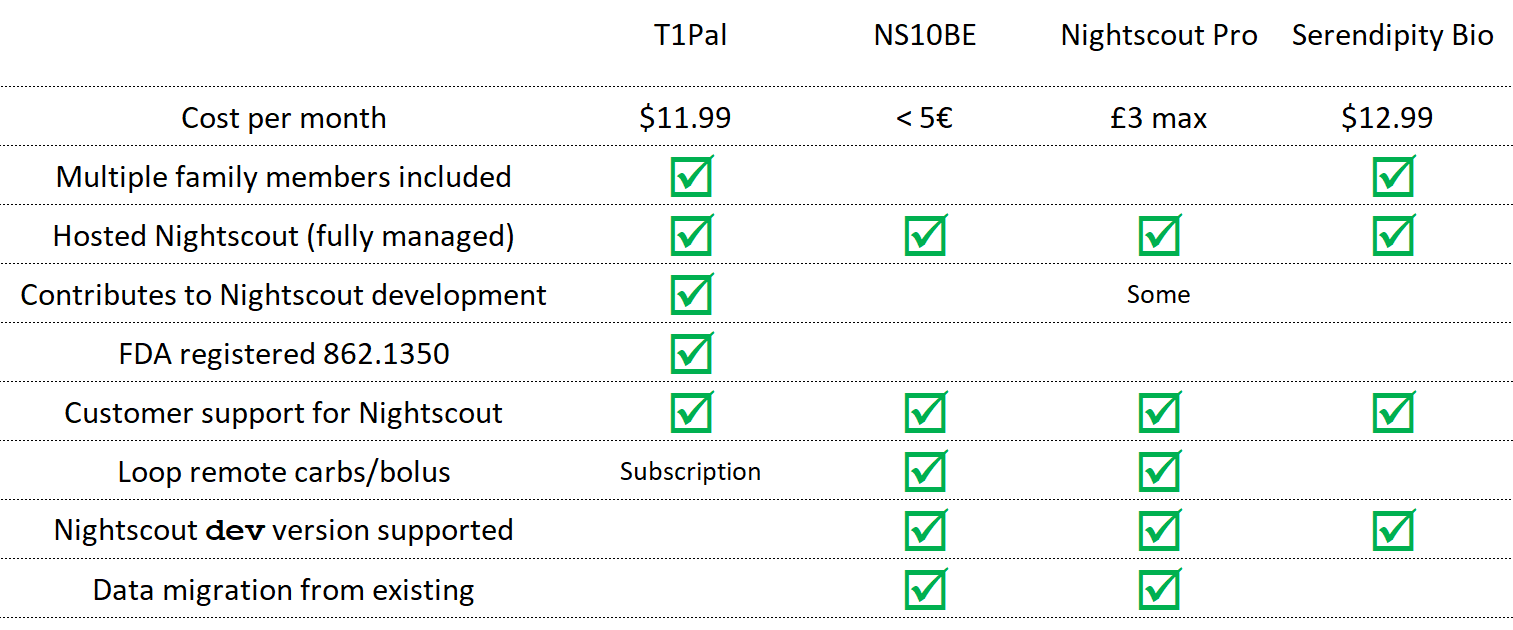
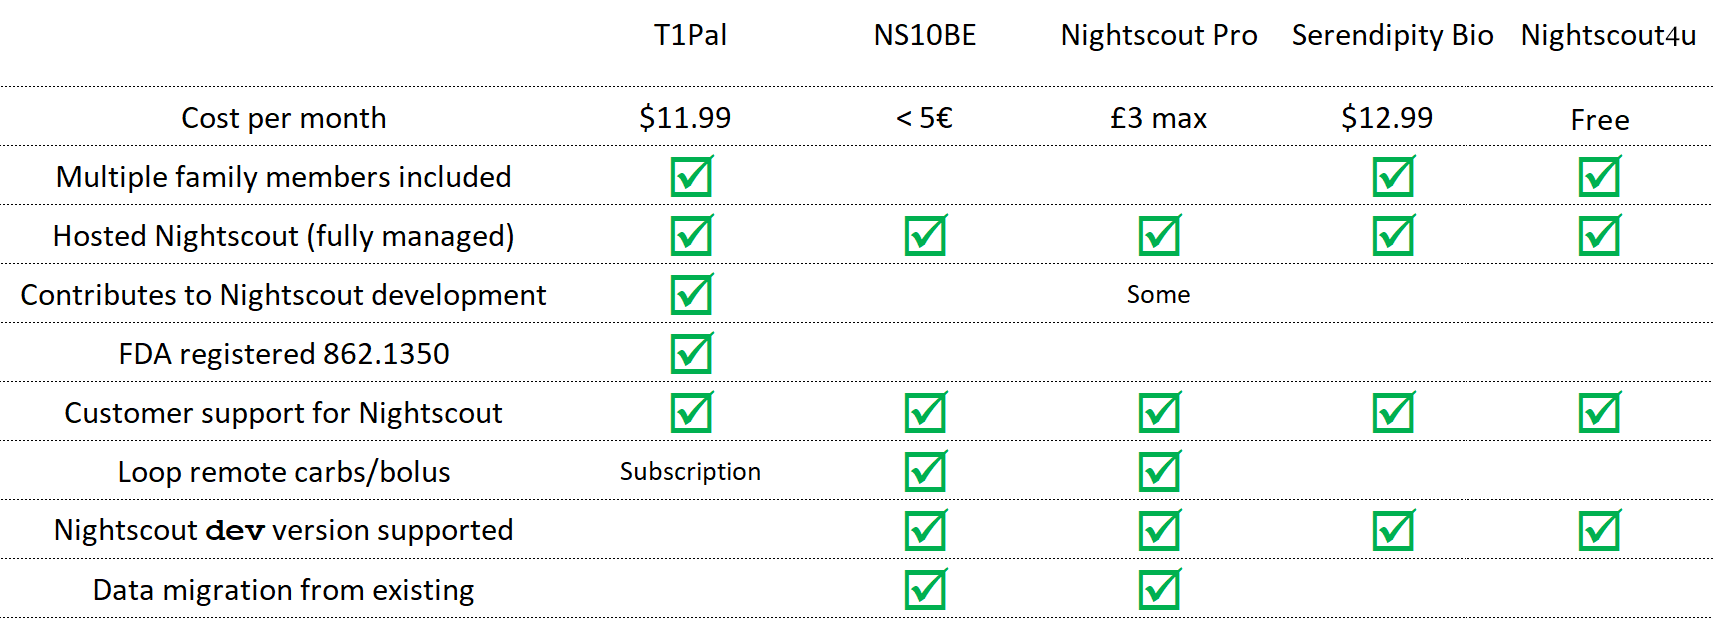
Add Nightscout4u to vendors list and wizard.

diff --git a/docs/nightscout/wizard.md b/docs/nightscout/wizard.md
@@ -22,16 +22,16 @@ This set of questions will hopefully help choose the best solution for you, or a
 function Validate()
 {
 	var dbAtla, dbAtlaP, dbRail, dbNort, dbVPS
-	var nsHero, nsRail, nsNort, nsAzur, nsVPS, nsFly, nsRend, nsGoog, nsT1Pal, ns10be, nsPro, nsSerendipity
+	var nsHero, nsRail, nsNort, nsAzur, nsVPS, nsFly, nsRend, nsGoog, nsT1Pal, ns10be, nsPro, nsSerendipity, ns4u
 	var sDB, sNS
 	sDB=""; sNS=""
 	dbAtla=1; dbAtlaP=1; dbRail=1; dbNort=1; dbVPS=1;
-	nsHero=1; nsRail=1; nsNort=1; nsAzur=1; nsVPS=1; nsFly=1; nsRend=1; nsGoog=1; nsT1Pal=1; ns10be=1; nsPro=1; nsSerendipity=1; 
+	nsHero=1; nsRail=1; nsNort=1; nsAzur=1; nsVPS=1; nsFly=1; nsRend=1; nsGoog=1; nsT1Pal=1; ns10be=1; nsPro=1; nsSerendipity=1; ns4u=1;
 	sel = document.getElementById("SIMPLE");
 	switch(sel.selectedIndex)
 	{
 		case 0: dbAtla=1; dbAtlaP=1; dbRail=1; dbNort=1; dbVPS=1; nsHero=1; nsRail=1;
-	    		nsNort=1; nsAzur=1; nsVPS=1; nsFly=1; nsRend=1; nsGoog=1; nsT1Pal=1; ns10be=1; nsPro=1; nsSerendipity=1; 
+	    		nsNort=1; nsAzur=1; nsVPS=1; nsFly=1; nsRend=1; nsGoog=1; nsT1Pal=1; ns10be=1; nsPro=1; nsSerendipity=1; ns4u=1;
 	    		sDB="[Reliability constrains removed for IT knowledgeable user]<br />";
 	    		sNS="[Reliability constrains removed for IT knowledgeable user]<br />"
 	    		break
@@ -43,10 +43,10 @@ function Validate()
 	sel = document.getElementById("COST");
 	switch(sel.selectedIndex)
 	{
-		case 0: dbNort=0; nsHero=0; dbAtlaP=0; dbRail=0; nsGoog=0; nsT1Pal=0; ns10be=0; nsPro=0; nsRail=0; nsSerendipity=0;  break
-		case 1: dbNort=0; nsHero=0; dbAtlaP=0; dbRail=0; nsT1Pal=0; ns10be=0; nsPro=0; nsRail=0; nsSerendipity=0; break
-		case 2: dbAtlaP=0; nsT1Pal=0; nsSerendipity=0; break
-		case 3: nsT1Pal=0; nsSerendipity=0; break
+		case 0: dbNort=0; nsHero=0; dbAtlaP=0; dbRail=0; nsGoog=0; nsT1Pal=0; ns10be=0; nsPro=0; nsRail=0; nsSerendipity=0; ns4u=1; break
+		case 1: dbNort=0; nsHero=0; dbAtlaP=0; dbRail=0; nsT1Pal=0; ns10be=0; nsPro=0; nsRail=0; nsSerendipity=0; ns4u=1; break
+		case 2: dbAtlaP=0; nsT1Pal=0; nsSerendipity=0; ns4u=1; break
+		case 3: nsT1Pal=0; nsSerendipity=0; ns4u=1; break
 		case 4: break
 	}
 	sel = document.getElementById("RELY");
@@ -60,7 +60,7 @@ function Validate()
 	if(dbRail) sDB=sDB+" - Railway Mongo database (10$/GiB/month)<br />"
 	if(dbNort) sDB=sDB+" - Northflank Mongo database (0.3$/GiB/month) <br />"
 	if(dbVPS) sDB=sDB+" - VPS Mongo database (Oracle, Google, ...) <br />"
-	if(nsT1Pal|ns10be|nsPro|nsSerendipity) sDB=sDB+" - Database included in the hosted service <br />"
+	if(nsT1Pal|ns10be|nsPro|nsSerendipity|ns4u) sDB=sDB+" - Database included in the hosted service <br />"
 	if(nsGoog) sDB=sDB+" - Database included in Google Cloud <br />"
 	if(sDB=="") sDB="Uh... not many choices there, try to change some options and retry."
 	document.getElementById("resultDB").innerHTML = sDB;
@@ -82,6 +82,7 @@ function Validate()
 	if(ns10be) sNS=sNS+" - NS10BE Hosted Nightscout (from €4.99/month) <br />"
 	if(nsPro) sNS=sNS+" - Nightscout Pro Hosted service (3£/month) <br />"
 	if(nsSerendipity) sNS=sNS+" - Serendipity Bio  Hosted service (12.99$/month) <br />"
+	if(ns4u) sNS=sNS+" - Nightscout4u Hosted service (Free) <br />"
 	if(sNS=="") sNS="Uh... not many choices there, try to change some options and retry."
 	document.getElementById("resultNS").innerHTML = sNS;
 }
@@ -116,7 +117,8 @@ Made you mind? Have a look at your options:
 [T1Pal](/index.md#t1pal)  
 [NS10BE](/index.md#ns10be)  
 [Nightscout Pro](/index.md#nightscout-pro)  
-[Serendipity Bio](/index.md#serendipity-bio)
+[Serendipity Bio](/index.md#serendipity-bio)  
+[Nightscout4u](/index.md#nightscout4u)  
 
 ## <u>Database</u>
 

diff --git a/docs/index.md b/docs/index.md
@@ -83,7 +83,7 @@ Before using Nightscout, it is important to understand that this project:
 There's no simple answer to this. You basically have two options:
 
 1. **DIY**: Use instructions on this website to create your own installation. You will need to maintain this installation yourself. There are cloud providers that offer the needed hosting services for free, so your monthly hosting cost can be free - $0 with this option. Historically vast majority of Nightscout users have opted for this choice. Of note, with this option you are the person responsible for ensuring the service is up when you need it. The community aims to support people who choose this option, but this is entirely driven by a voluteer effort and support might not be available when you need it.
-2. **Use a service**: You can use a hosting provider that does all of this work for you in exchange for a monthly fee. There are currently three options available for this ([NS10BE](#ns10be), [T1Pal](#t1pal), [Nightscout.Pro](#nightscout-pro), [Serendipity Bio](#serendipity-bio)), all of which are from active Nightscout community members. If you're a non-technical person, this is a **great choice**.
+2. **Use a service**: You can use a hosting provider that does all of this work for you in exchange for a monthly fee. There are currently three options available for this ([NS10BE](#ns10be), [T1Pal](#t1pal), [Nightscout.Pro](#nightscout-pro), [Serendipity Bio](#serendipity-bio), and [Nightscout4u](#nightscout4u)), all of which are from active Nightscout community members. If you're a non-technical person, this is a **great choice**.
 
 The Nightscout development community actively supports both of these choices.
 
@@ -174,6 +174,17 @@ Concerned about reliability or sustainability?  Serendipity Bio is built using A
 Coming soon, the service will feature additional, enhanced reporting and alerting alongside Nightscout's current features!
 
 Available globally, a monthly subscription is priced at $12.99 USD per month, payable online via credit card.
+```
+### Nightscout4u
+
+```{card}
+<img src="https://www.nightscout4u.com/images/LogoNightscout4u0002.png" height="155">
++++
+[Nightscout4u.com](https://www.nightscout4u.com/) started its service in 2023 and offers a simple one-click hosted Nightscout service solution. It is possible to create and use multiple Nightscout instances with one account.
+
+As the service does not cover any guarantee in a production environment, it is completely **free of charge** and suitable for beginners to make their first steps and get used to Nightscout.
+
+Check out the easy way of a [hosted Nightscout solution](https://www.nightscout4u.com/).
 ```
 
 ## Who Can Help Me?

diff --git a/docs/clinicians/home.md b/docs/clinicians/home.md
@@ -33,7 +33,7 @@ Ask your IT and cybersecurity teams to perform all necessary verifications to al
 
 Since Nightscout can be hosted in a large variety of [platforms](/nightscout/new_user.md#building-nightscout-diy-in-a-cloud-platform), you can expect the site domain to be (but not only) in the following list:
 
-`heroku.com`, `azurewebsites.net`, `railway.app`, `fly.dev`, `onrender.com`, `t1pal.com`, `ns10be.de`, `nightscout.pro`, `mooo.com`, `chickenkiller.com`, `crabdance.com`, `strangled.net`, ` code.run` ...
+`heroku.com`, `azurewebsites.net`, `railway.app`, `fly.dev`, `onrender.com`, `t1pal.com`, `ns10be.de`, `nightscout.pro`, `mooo.com`, `chickenkiller.com`, `crabdance.com`, `strangled.net`, `code.run`, `nightscout4u.com` ...
 
 ```{admonition} Read only access
 Writing data into Nightscout is protected with a password called API_SECRET that should not be shared with you by the patient.

diff --git a/docs/nightscout/new_user.md b/docs/nightscout/new_user.md
@@ -48,7 +48,7 @@ Below is a list of most used platforms. There are probably others, don't hesitat
 Hosted services include everything: platform, database and support.
 ```
 
-[T1Pal](https://t1pal.com/), [NS10BE](https://ns.10be.de/de/index.html), [Nightscout Pro](https://nightscout.pro/), [Serendipity Bio](https://serendipitybio.com/)
+[T1Pal](https://t1pal.com/), [NS10BE](https://ns.10be.de/de/index.html), [Nightscout Pro](https://nightscout.pro/), [Serendipity Bio](https://serendipitybio.com/), [Nightscout4u](https://www.nightscout4u.com/)
 
 <img src="./img/Comparison.png"  width="800px" />
 

diff --git a/docs/pages/update-fork/index.md b/docs/pages/update-fork/index.md
@@ -22,4 +22,5 @@ orphan: true
 | <img src="/vendors/img/Azure.png" width="100px" />       | [Update](/update/update/)                                    |
 | <img src="/vendors/img/Fly.io.png" width="100px" />      | [Update](/update/update/)                                    |
 | <img src="/vendors/img/Render.png" width="100px" />      | [Update](/update/update/)                                    |
+| <img src="/vendors/img/Nightscout4u.png" width="100px" /> | Contact [Nightscout4u](https://www.nightscout4u.com/index.php/contact) |
 

diff --git a/docs/vendors/nightscout4u/new_user.md b/docs/vendors/nightscout4u/new_user.md
@@ -1,0 +1,9 @@
+---
+orphan: true
+---
+
+
+<head>
+  <meta http-equiv="Refresh" content="0; URL=https://www.nightscout4u.com/" />
+</head>
+
